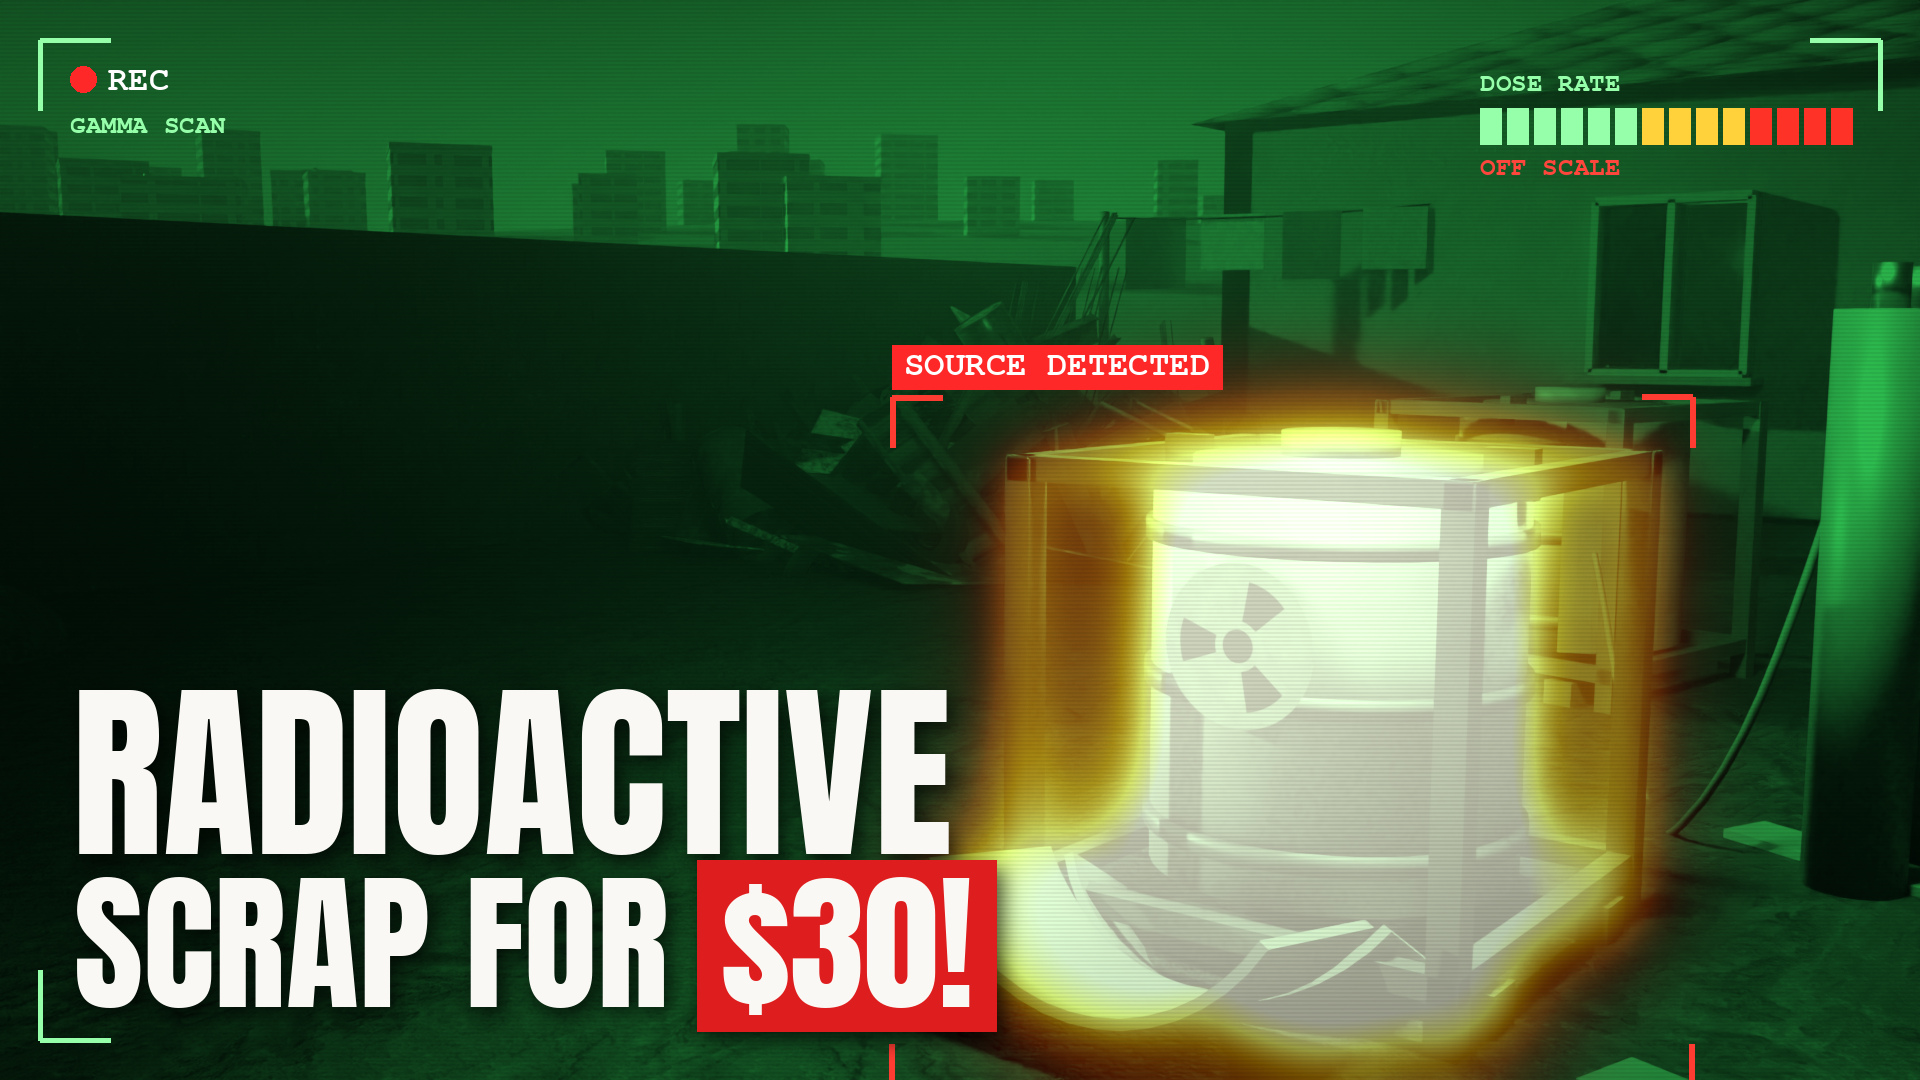
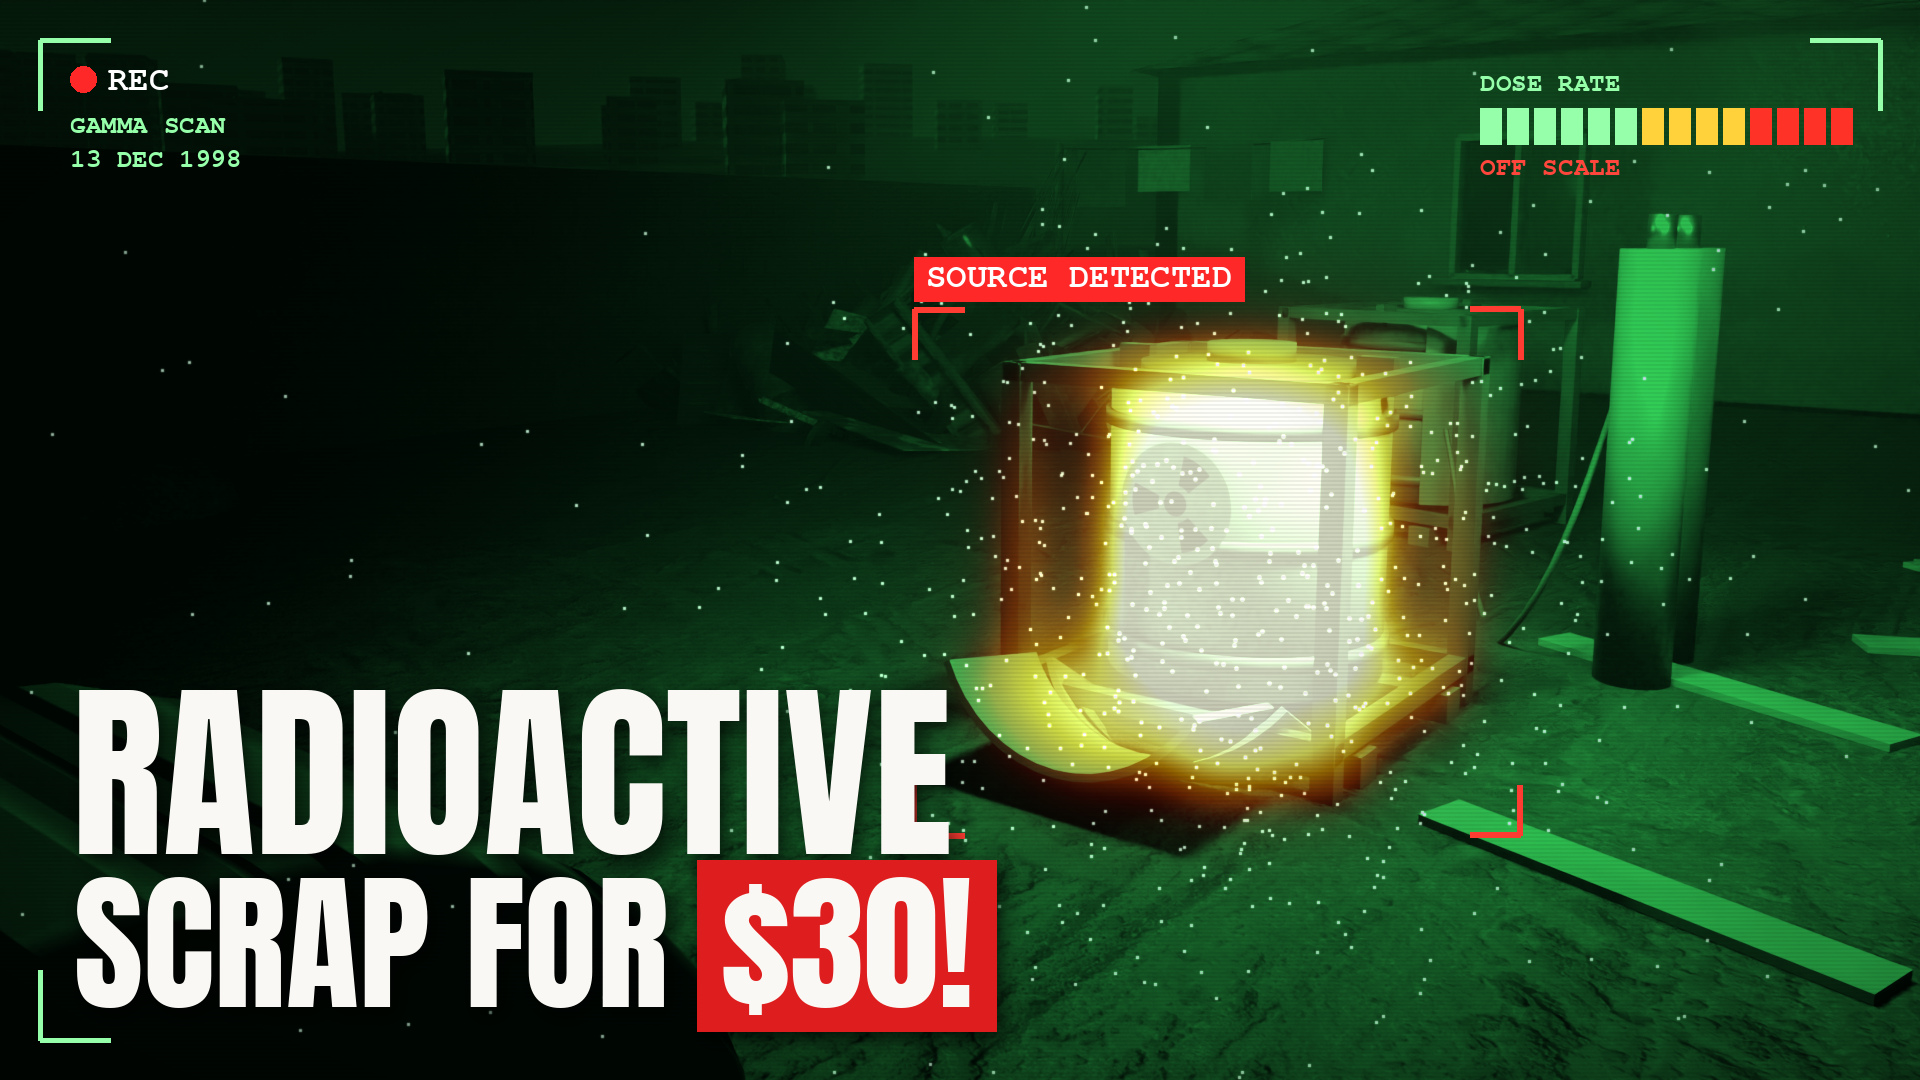
Radioactive Scrap C: night, white-hot core, gamma speckle, date, framed higher and wider
Claude-Session: https://claude.ai/code/session_01XfwPSn2rDX1TedbFgHWJ1r

diff --git a/thumbnails/scrap/make.py b/thumbnails/scrap/make.py
@@ -95,13 +95,25 @@ def detector(yard_path, mask_path):
     lum = src @ np.array([0.3, 0.59, 0.11], np.float32)
     lum = np.clip((lum - 0.12) / 0.75, 0, 1) ** 1.35
     g = np.stack([lum * 0.25, lum * 1.0, lum * 0.42], -1) * 0.9 + np.array([0.0, 0.035, 0.015])  # green night-vision ramp
+    yy_, xx_ = np.mgrid[0:H, 0:W]
     m = np.asarray(Image.open(mask_path).split()[-1].resize((W, H), Image.LANCZOS)).astype(np.float32) / 255
     heat = np.asarray(Image.fromarray((m * 255).astype(np.uint8)).filter(ImageFilter.GaussianBlur(90))).astype(np.float32) / 255
     core = np.asarray(Image.fromarray((m * 255).astype(np.uint8)).filter(ImageFilter.GaussianBlur(25))).astype(np.float32) / 255
-    h = np.clip(heat * 1.25 + core * 0.45, 0, 1.15)
+    # the drum's core white-hot, falling off to orange/red at the frame, plus a modest halo
+    ys_, xs_ = np.nonzero(m > 0.5); cy_, cx_ = ys_.mean(), xs_.mean(); ext = max(np.ptp(xs_), np.ptp(ys_)) / 2
+    rr = np.sqrt((xx_ - cx_) ** 2 + (yy_ - cy_) ** 2) / ext
+    inner = core * np.clip(1.25 - rr, 0, 1)
+    h = np.clip(inner * 1.25 + heat * 0.55, 0, 1.15)
     ramp = lambda t: np.stack([np.clip(t * 2.2, 0, 1), np.clip(t * 1.6 - 0.45, 0, 1), np.clip(t * 2.0 - 1.4, 0, 1)], -1)
     col = ramp(h) ; a = np.clip(h * 0.85, 0, 0.78)[..., None]
     img = g * (1 - a) + col * a + (lum[..., None] * a * 0.25)
+    # gamma speckle: white sparkle hits on the sensor, densest near the source
+    rng = np.random.default_rng(5)
+    field = np.asarray(Image.fromarray((m * 255).astype(np.uint8)).filter(ImageFilter.GaussianBlur(260))).astype(np.float32) / 255
+    field = field / max(field.max(), 1e-6)
+    hits = rng.random((H, W)) < (0.00004 + 0.0028 * field ** 2.2)
+    sp = np.asarray(Image.fromarray((hits * 255).astype(np.uint8)).filter(ImageFilter.MaxFilter(3)).filter(ImageFilter.GaussianBlur(0.7))).astype(np.float32) / 255
+    img = np.clip(img + sp[..., None] * np.array([0.85, 1.0, 0.9]) * 0.9, 0, 1)
     # scanlines + a faint vignette
     sl = 1 - 0.06 * (np.arange(H) % 4 < 2)[:, None, None]
     yy, xx = np.mgrid[0:H, 0:W]; vg = np.clip(1.15 - 0.75 * np.sqrt(((xx - W / 2) / W) ** 2 + ((yy - H / 2) / H) ** 2), 0, 1)[..., None]
@@ -112,10 +124,10 @@ def detector(yard_path, mask_path):
     for (x, y, sx, sy) in ((L_, T, 1, 1), (W - L_, T, -1, 1), (L_, H - T, 1, -1)):
         d.line([(x, y), (x + 70 * sx, y)], fill=hg, width=5); d.line([(x, y), (x, y + 70 * sy)], fill=hg, width=5)
     d.ellipse([70, 66, 96, 92], fill=(255, 40, 40, 255)); d.text((108, 62), "REC", font=fm, fill=(255, 255, 255, 255))
-    d.text((70, 112), "GAMMA SCAN", font=fs, fill=hg)
+    d.text((70, 112), "GAMMA SCAN", font=fs, fill=hg); d.text((70, 146), "13 DEC 1998", font=fs, fill=hg)
     # target box around the hotspot
     ys, xs = np.nonzero(m > 0.5)
-    x0, x1, y0, y1 = xs.min() - 30, xs.max() + 30, ys.min() - 30, ys.max() + 30
+    x0, x1, y0, y1 = xs.min() - 30, min(xs.max() + 30, W - 280), ys.min() - 30, min(ys.max() + 30, H - 120)
     for (x, y, sx, sy) in ((x0, y0, 1, 1), (x1, y0, -1, 1), (x0, y1, 1, -1), (x1, y1, -1, -1)):
         d.line([(x, y), (x + 50 * sx, y)], fill=(255, 60, 50, 255), width=6); d.line([(x, y), (x, y + 50 * sy)], fill=(255, 60, 50, 255), width=6)
     lab = "SOURCE DETECTED"; tw = d.textlength(lab, font=fm)

diff --git a/thumbnails/scrap/concepts.py b/thumbnails/scrap/concepts.py
@@ -53,6 +53,17 @@ def setup_yard(c):
     haze(p + Vector((0, 0, 1.0)), (14, 14, 4), density=0.012, color=(0.9, 0.95, 1.0), anis=0.4)
     from common import area_light as al
     top = al(p + Vector((-0.4, -0.3, 2.6)), (0, 0, 0), 0.5, 400, (1.0, 0.95, 0.85)); point_at(top, p)
+    w = bpy.context.scene.world                             # proper night: sky and sun way down
+    if w and w.node_tree:
+        for n in w.node_tree.nodes:
+            if n.type == 'BACKGROUND':
+                n.inputs['Strength'].default_value *= 0.25
+    for o in bpy.data.objects:
+        if o.type == 'LIGHT' and o.data.type == 'SUN':
+            o.data.energy *= 0.25
+    import sc_ikitelli as S                                 # the torch gas bottles beside the containers: a little light on them
+    g = Vector((S.C2.x - 1.84, S.C2.y - 1.4, 0.8))
+    gl = al(g + Vector((-1.2, -0.6, 1.0)), (0, 0, 0), 0.6, 120, (1.0, 0.95, 0.9)); point_at(gl, g)
 
 
 def cam_cut(c):
@@ -62,10 +73,10 @@ def cam_cut(c):
 
 def cam_yard(c):
     p = _c1()
-    return (p + Vector((-3.2, -1.6, 1.25)), p + Vector((0.3, 1.25, 0.7)), 32)
+    return (p + Vector((-3.6, -1.8, 1.35)), p + Vector((0.3, 1.25, 0.62)), 27)
 
 
 CONCEPTS = {
     "rs_cut": dict(scene="ikitelli", variant="night", cam=cam_cut, setup=setup_cut, exposure=0.0),
-    "rs_yard": dict(scene="ikitelli", variant="night", cam=cam_yard, setup=setup_yard, exposure=-0.3, mask=parts),
+    "rs_yard": dict(scene="ikitelli", variant="night", cam=cam_yard, shift=(0.0, -0.05), setup=setup_yard, exposure=-0.3, mask=parts),
 }
